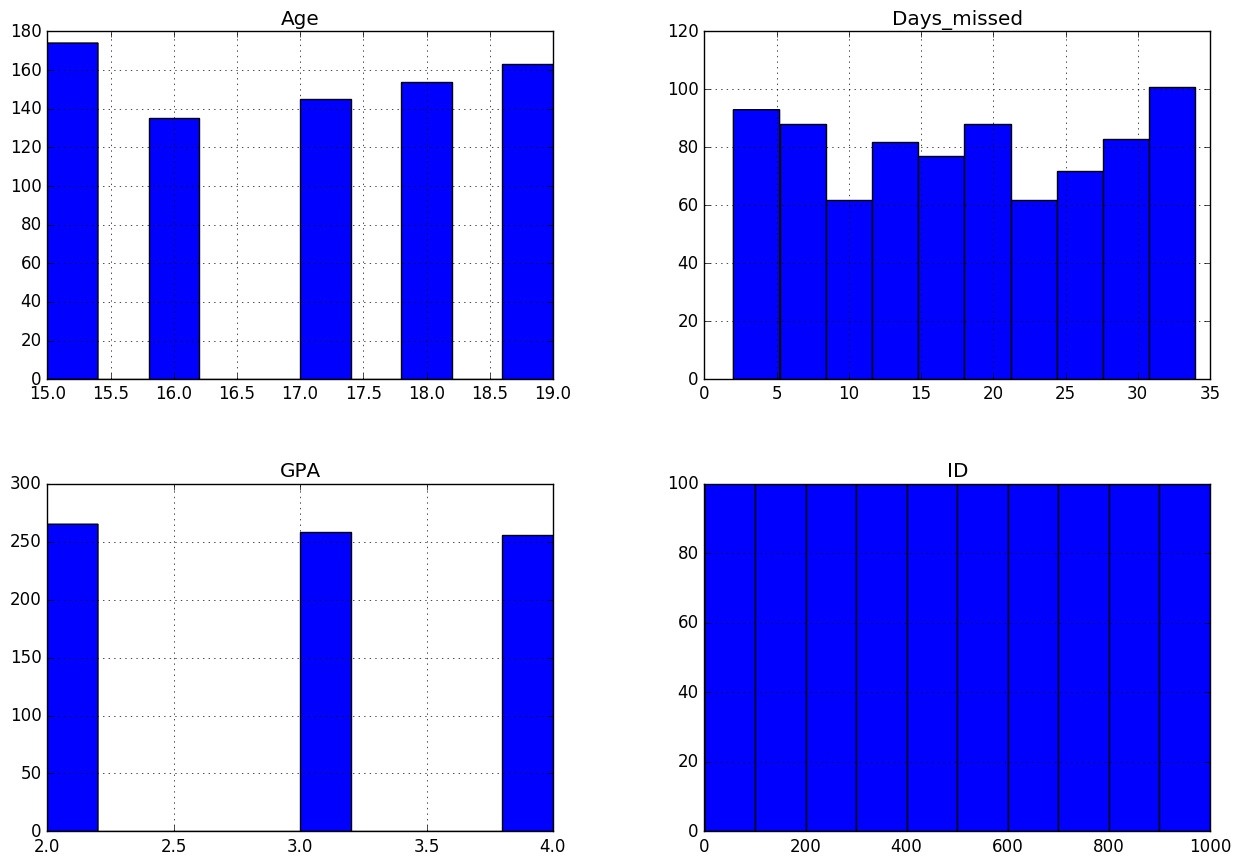
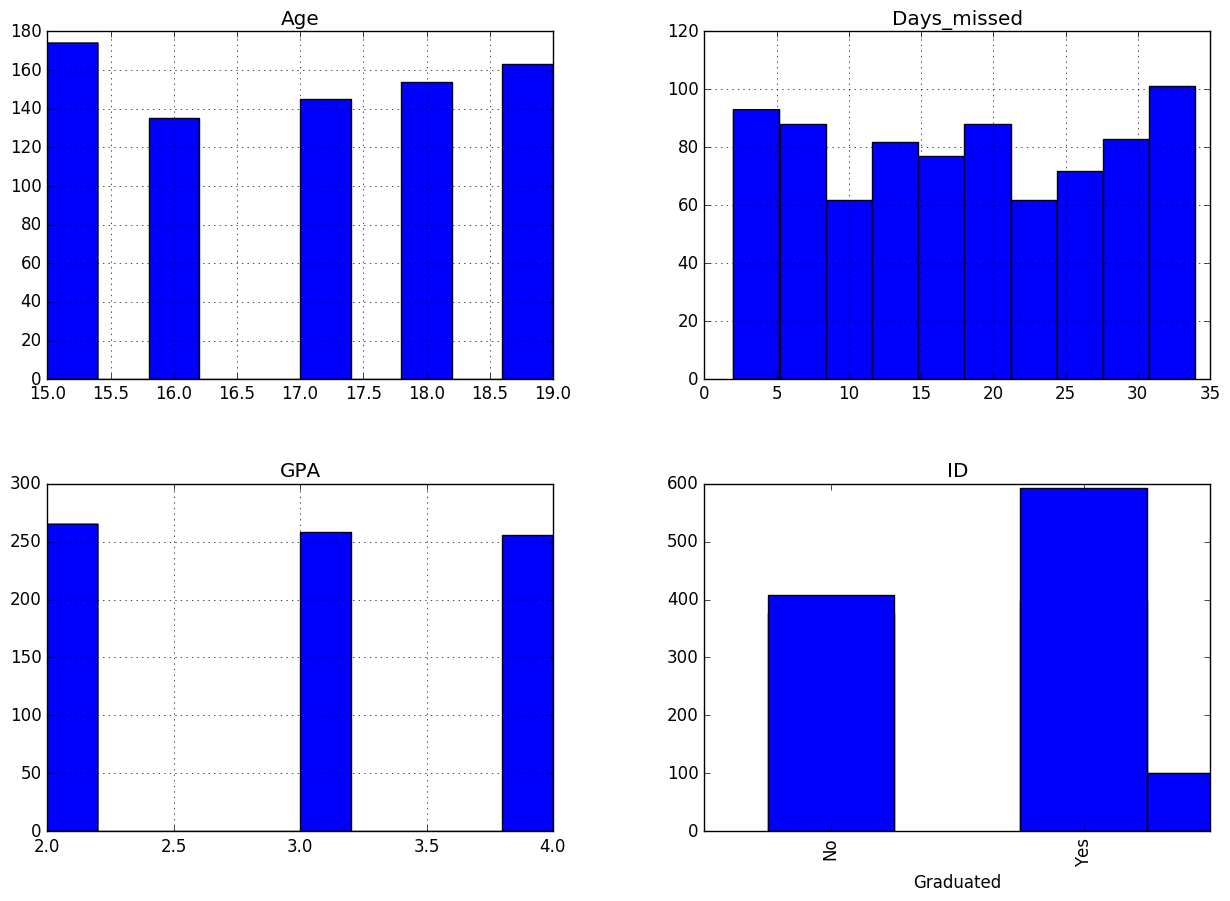
second batch

diff --git a/PA1/ML_H1.py b/PA1/ML_H1.py
@@ -11,6 +11,9 @@ ROW = 0
 data_file = pd.read_csv(FILENAME)
 
 def obtain_statistics(data_file):
+	'''
+	Obtain basic statistics for data 
+	'''
 	median = data_file.median(ROW)
 	mean = data_file.mean(ROW)
 	mode = data_file.mode(ROW)
@@ -20,16 +23,37 @@ def obtain_statistics(data_file):
 		missing_values = len(data_file[variable][data_file[variable].isnull()])
 		missing_values_list.append((variable,missing_values))
 
-	return median, mean, mode, sd, missing_values_list
+	final = pd.concat([median,mean,sd],axis=1)
+
+	return final, mode, missing_values_list
 
 
 def plot_histograms(data_file):
+	'''
+	Obtain plots  
+	'''
 	histograms= data_file.hist(figsize=(15, 10))
 	for i,graph in enumerate(histograms):
 		plt.savefig("graph"+str(i)+".png", bbox_inches = "tight")
+		plt.close()
+
+	data_file.groupby("State")["ID"].count().sort_values().plot(kind = "bar")
+	plt.savefig("state_histogram.png", bbox_inches = "tight")
+	plt.close()
+
+	data_file.groupby("Gender")["ID"].count().sort_values().plot(kind = "bar")
+	plt.savefig("gender_histogram.png", bbox_inches = "tight")
+	plt.close()
+
+	data_file.groupby("Graduated")["ID"].count().sort_values().plot(kind = "bar")
+	plt.savefig("graduated_histogram.png", bbox_inches = "tight")
+	plt.close()
 	
 
 def predict_gender(data_file):
+	'''
+	Predict gender based on genderize API and replace data file
+	'''
 	missing_names = data_file[data_file["Gender"].isnull()]
 	gender_list = []
 	for row in missing_names.iterrows():
@@ -42,12 +66,11 @@ def predict_gender(data_file):
 	final_data = pd.concat([missing_names,data_file[~data_file["Gender"].isnull()]],axis=0)
 	final_data.to_csv("names_predictions.csv",header = True)
 
-def obtain_group_mean(group,variable):
-	group[variable] = group.Age.mean()
-
-	return group
 
 def fill_missing_values(data_file, method):
+	'''
+	Replace missing values with different models 
+	'''
 	if method == "A":
 		data_file = data_file.fillna(data_file.mean())
 
@@ -75,17 +98,12 @@ def fill_missing_values(data_file, method):
 new_data_file = pd.read_csv("names_predictions.csv")
 
 def generate_files(new_data_file):
-	treated_data = fill_missing_values(data_file,"A")
+	treated_data = fill_missing_values(new_data_file,"A")
 	treated_data.to_csv("Model_A.csv",header = True)
-	treated_data = fill_missing_values(data_file,"B")
+	treated_data = fill_missing_values(new_data_file,"B")
 	treated_data.to_csv("Model_B.csv",header = True)
-	treated_data = fill_missing_values(data_file,"C")
+	treated_data = fill_missing_values(new_data_file,"C")
 	treated_data.to_csv("Model_C.csv",header = True)
-
-
-if __name__ == "__main__":
-
-
 
 
 
